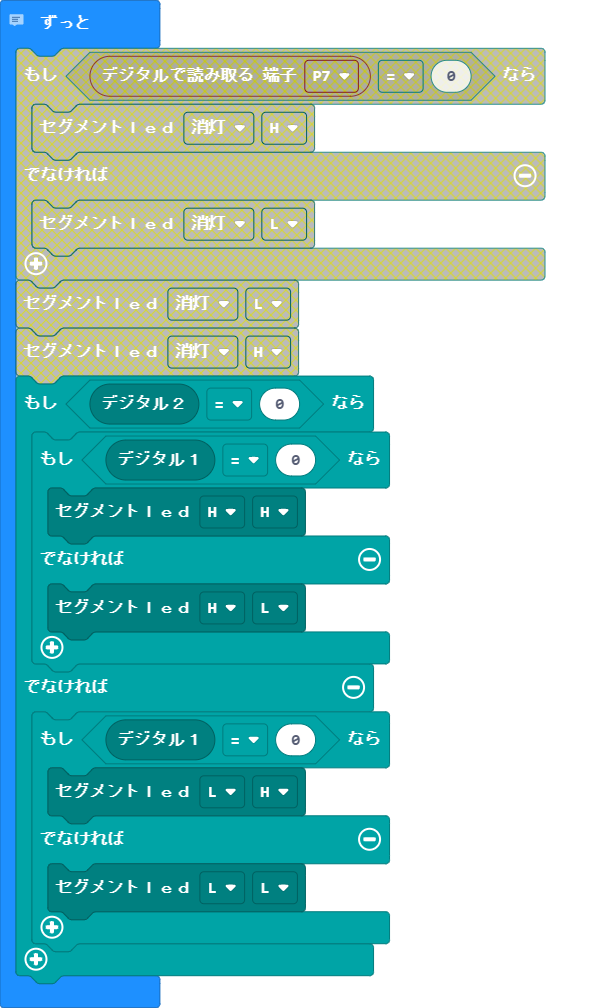
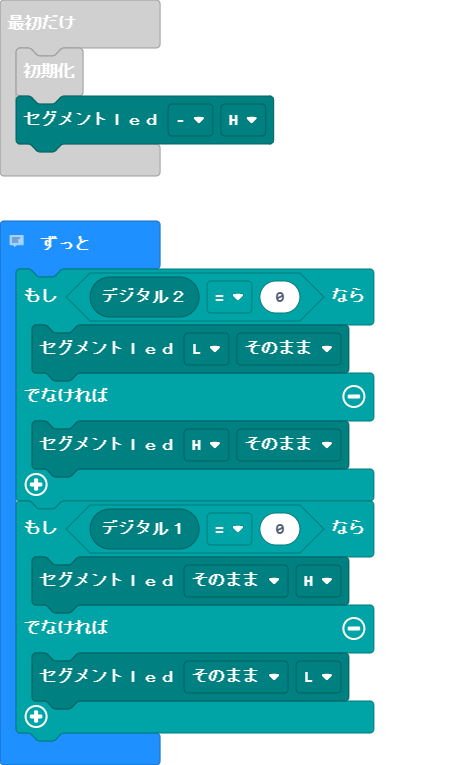
7セグＬＥＤに「そのまま」を追加

diff --git a/custom.ts b/custom.ts
@@ -24,6 +24,8 @@ enum color_type {
 enum LED_view {
     //% block="消灯"
     black,
+    //% block="そのまま"
+    pre,
     //% block="H"
     Hi,
     //% block="L"
@@ -66,6 +68,8 @@ enum LED_view {
 }
 let led_value:number
 let FullLED_Value:number
+let seg_l:number
+let seg_r: number
 
 /**
  * Custom blocks
@@ -157,7 +161,7 @@ namespace custom {
      * TODO: describe your function here
      * @param value describe value here, eg: 5
      */
-    //%  block
+    //%
     export function clk(): void {
         pins.digitalWritePin(DigitalPin.P13, 0)
         basic.pause(1)
@@ -193,6 +197,17 @@ namespace custom {
 
     //% block
     export function セグメントＬＥＤ(led_l: LED_view, led_r: LED_view): void {
+        if(led_l ==LED_view.pre){
+            led_l = seg_l
+        }else{
+            seg_l = led_l
+        }
+        if (led_r == LED_view.pre) {
+            led_r = seg_r
+        }else{
+            seg_r = led_r
+        }
+
         switch(led_l){
             case LED_view.black:
                 led_value = 0
@@ -258,7 +273,7 @@ namespace custom {
         switch (led_r) {
             case LED_view.black:
                 led_value += 0 * 256
-                break;
+            break;
             case LED_view.Hi:
                 led_value += 110*256
                 break;

diff --git a/main.ts b/main.ts
@@ -1,17 +1,15 @@
 custom.initialize()
+custom.セグメントＬＥＤ(LED_view.minus, LED_view.Hi)
 // custom.セグメントＬＥＤ(LED_view.e, LED_view.black)
 basic.forever(function () {
     if (custom.デジタル２() == 0) {
-        if (custom.デジタル１() == 0) {
-            custom.セグメントＬＥＤ(LED_view.Hi, LED_view.Hi)
-        } else {
-            custom.セグメントＬＥＤ(LED_view.Hi, LED_view.Low)
-        }
+        custom.セグメントＬＥＤ(LED_view.Low, LED_view.pre)
     } else {
-        if (custom.デジタル１() == 0) {
-            custom.セグメントＬＥＤ(LED_view.Low, LED_view.Hi)
-        } else {
-            custom.セグメントＬＥＤ(LED_view.Low, LED_view.Low)
-        }
+        custom.セグメントＬＥＤ(LED_view.Hi, LED_view.pre)
+    }
+    if (custom.デジタル１() == 0) {
+        custom.セグメントＬＥＤ(LED_view.pre, LED_view.Hi)
+    } else {
+        custom.セグメントＬＥＤ(LED_view.pre, LED_view.Low)
     }
 })
